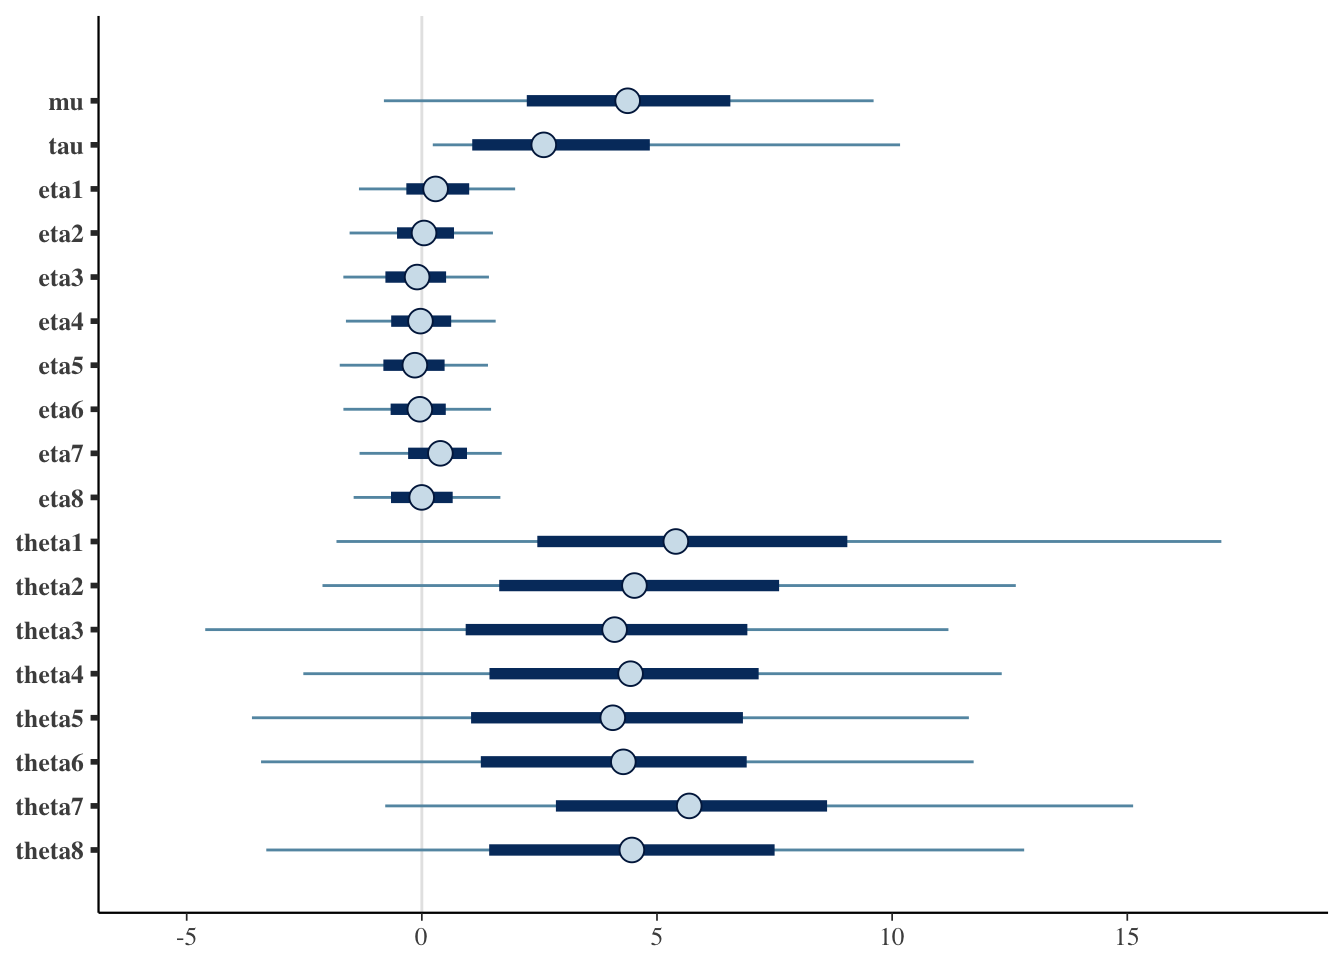
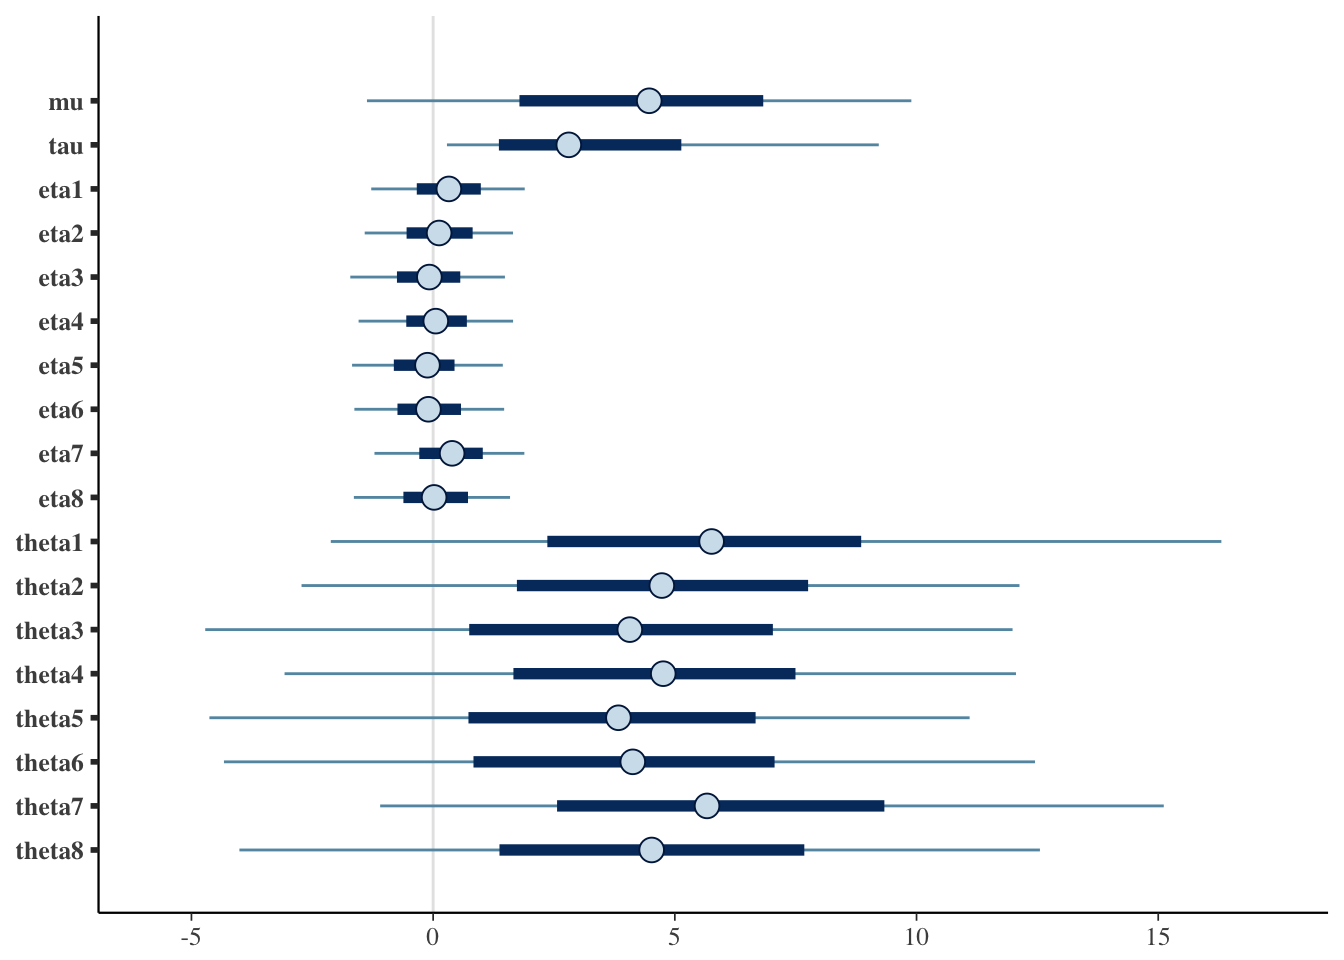
minor updates

diff --git a/content/post/2018-05-02-eight-schools-excercise-with-greta.html b/content/post/2018-05-02-eight-schools-excercise-with-greta.html
@@ -46,7 +46,7 @@ Here's the latest post from RViews “An Introduction to Greta” <a href="https
 <p><em>Eight schools</em> dataset is nice and small with estimated treatment effect <strong>y</strong> and its standard deviation <strong>sigma</strong> of Scholastic Aptitude Test (SAT) scores for 8 schools:</p>
 <pre class="r"><code>y &lt;- c(28,  8, -3,  7, -1,  1, 18, 12)
 sigma &lt;- c(15, 10, 16, 11,  9, 11, 10, 18)</code></pre>
-<p>We need to convert R vectors to greta array for use as data in a greta model:</p>
+<p>To use these two vectors as data in a greta model we need to convert them to greta arrays:</p>
 <pre class="r"><code>y &lt;- as_data(y)
 sigma &lt;- as_data(sigma)</code></pre>
 </div>
@@ -106,46 +106,46 @@ render_graph(gr)</code></pre>
 ##    plus standard error of the mean:
 ## 
 ##            Mean     SD Naive SE Time-series SE
-## mu      4.40638 3.2041  0.10132        0.14419
-## tau     3.51170 3.2868  0.10394        0.12123
-## eta1    0.30291 1.0305  0.03259        0.01986
-## eta2    0.05038 0.9338  0.02953        0.01992
-## eta3   -0.10531 0.9316  0.02946        0.01312
-## eta4   -0.02683 0.9694  0.03065        0.09965
-## eta5   -0.15585 0.9527  0.03013        0.01926
-## eta6   -0.06127 0.9263  0.02929        0.01278
-## eta7    0.31184 0.9457  0.02991        0.06812
-## eta8    0.02196 0.9831  0.03109        0.06826
-## theta1  6.13988 6.0643  0.19177        0.19994
-## theta2  4.80659 4.6177  0.14602        0.14585
-## theta3  3.80691 5.1294  0.16220        0.19320
-## theta4  4.48738 4.6845  0.14814        0.24573
-## theta5  3.86212 4.7247  0.14941        0.16420
-## theta6  4.14832 4.8474  0.15329        0.15962
-## theta7  6.15426 5.1452  0.16270        0.22227
-## theta8  4.50177 5.3192  0.16821        0.25795
+## mu      4.32650 3.4777  0.10997        0.04790
+## tau     3.55602 2.9950  0.09471        0.07615
+## eta1    0.31449 0.9822  0.03106        0.02341
+## eta2    0.12574 0.9604  0.03037        0.01354
+## eta3   -0.07218 0.9597  0.03035        0.01899
+## eta4    0.06650 0.9700  0.03068        0.01303
+## eta5   -0.14850 0.9450  0.02988        0.01341
+## eta6   -0.08699 0.9711  0.03071        0.01660
+## eta7    0.36703 0.9680  0.03061        0.02050
+## eta8    0.03155 0.9747  0.03082        0.04845
+## theta1  6.02775 5.6263  0.17792        0.13331
+## theta2  4.73805 4.6828  0.14808        0.08829
+## theta3  3.87346 5.0487  0.15965        0.11534
+## theta4  4.67178 4.7475  0.15013        0.09697
+## theta5  3.60640 4.8344  0.15288        0.10392
+## theta6  3.99449 5.0303  0.15907        0.10876
+## theta7  6.15284 5.1723  0.16356        0.11922
+## theta8  4.60295 5.2956  0.16746        0.18187
 ## 
 ## 2. Quantiles for each variable:
 ## 
-##           2.5%     25%       50%    75%  97.5%
-## mu     -1.7822  2.2314  4.376288 6.5602 10.822
-## tau     0.1125  1.0716  2.592602 4.8476 12.006
-## eta1   -1.8178 -0.3297  0.292463 1.0068  2.290
-## eta2   -1.8218 -0.5274  0.046816 0.6839  1.799
-## eta3   -1.8376 -0.7748 -0.100508 0.5156  1.668
-## eta4   -1.8954 -0.6518 -0.029275 0.6239  1.878
-## eta5   -2.0814 -0.8180 -0.148704 0.4840  1.783
-## eta6   -1.9285 -0.6639 -0.042824 0.5088  1.825
-## eta7   -1.6921 -0.2916  0.394515 0.9603  1.962
-## eta8   -1.7043 -0.6555 -0.002848 0.6558  2.112
-## theta1 -3.6495  2.4554  5.400803 9.0472 20.396
-## theta2 -3.7035  1.6450  4.520550 7.5967 14.946
-## theta3 -6.8189  0.9322  4.098323 6.9215 12.812
-## theta4 -4.1202  1.4381  4.438226 7.1618 14.713
-## theta5 -5.8551  1.0470  4.059938 6.8272 13.127
-## theta6 -6.0091  1.2542  4.284501 6.9075 13.397
-## theta7 -2.0136  2.8506  5.685422 8.6166 17.562
-## theta8 -6.4275  1.4317  4.465998 7.5011 15.327</code></pre>
+##           2.5%     25%      50%    75%  97.5%
+## mu     -2.1641  1.7856  4.47045 6.8289 11.031
+## tau     0.1332  1.3602  2.80674 5.1343 10.875
+## eta1   -1.6118 -0.3385  0.32551 0.9863  2.127
+## eta2   -1.7730 -0.5492  0.12355 0.8171  1.932
+## eta3   -1.8823 -0.7486 -0.07803 0.5614  1.774
+## eta4   -1.9129 -0.5558  0.05469 0.6975  1.975
+## eta5   -1.9646 -0.8133 -0.11725 0.4426  1.757
+## eta6   -1.9461 -0.7379 -0.09740 0.5760  1.808
+## eta7   -1.6421 -0.2865  0.39259 1.0271  2.133
+## eta8   -1.9361 -0.6151  0.02038 0.7209  1.906
+## theta1 -3.3524  2.3628  5.76095 8.8553 19.643
+## theta2 -5.0904  1.7328  4.73065 7.7571 13.697
+## theta3 -6.9793  0.7465  4.06884 7.0281 13.299
+## theta4 -4.9009  1.6609  4.76036 7.4958 13.909
+## theta5 -6.6298  0.7306  3.83300 6.6707 12.760
+## theta6 -6.8794  0.8346  4.13003 7.0634 13.776
+## theta7 -2.4360  2.5638  5.66612 9.3349 17.704
+## theta8 -5.5710  1.3723  4.52083 7.6786 14.596</code></pre>
 <p>MCMC chain and the parameter estimates can be plotted using <code>bayesplot</code> package:</p>
 <pre class="r"><code>library(bayesplot)</code></pre>
 <pre><code>## This is bayesplot version 1.4.0</code></pre>
